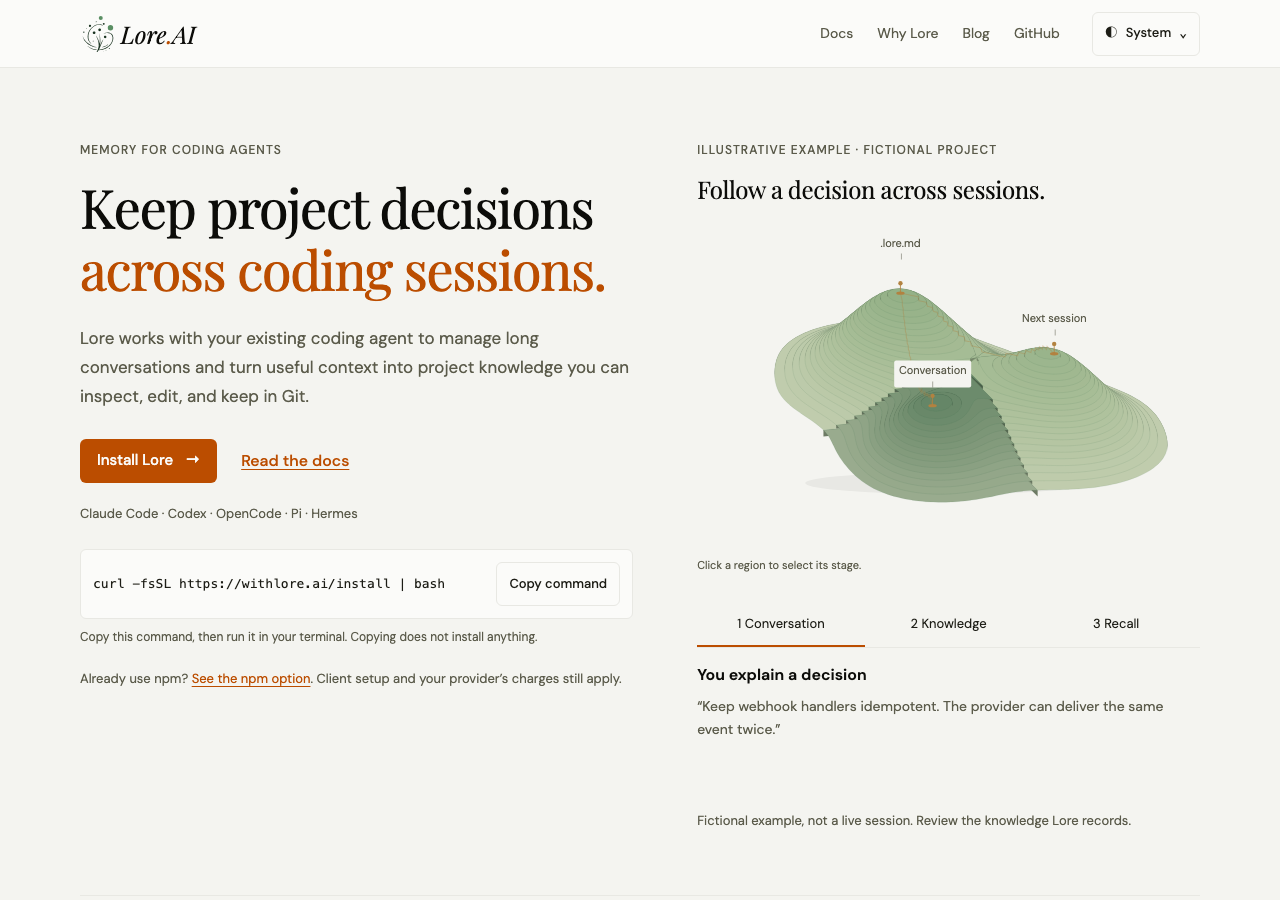
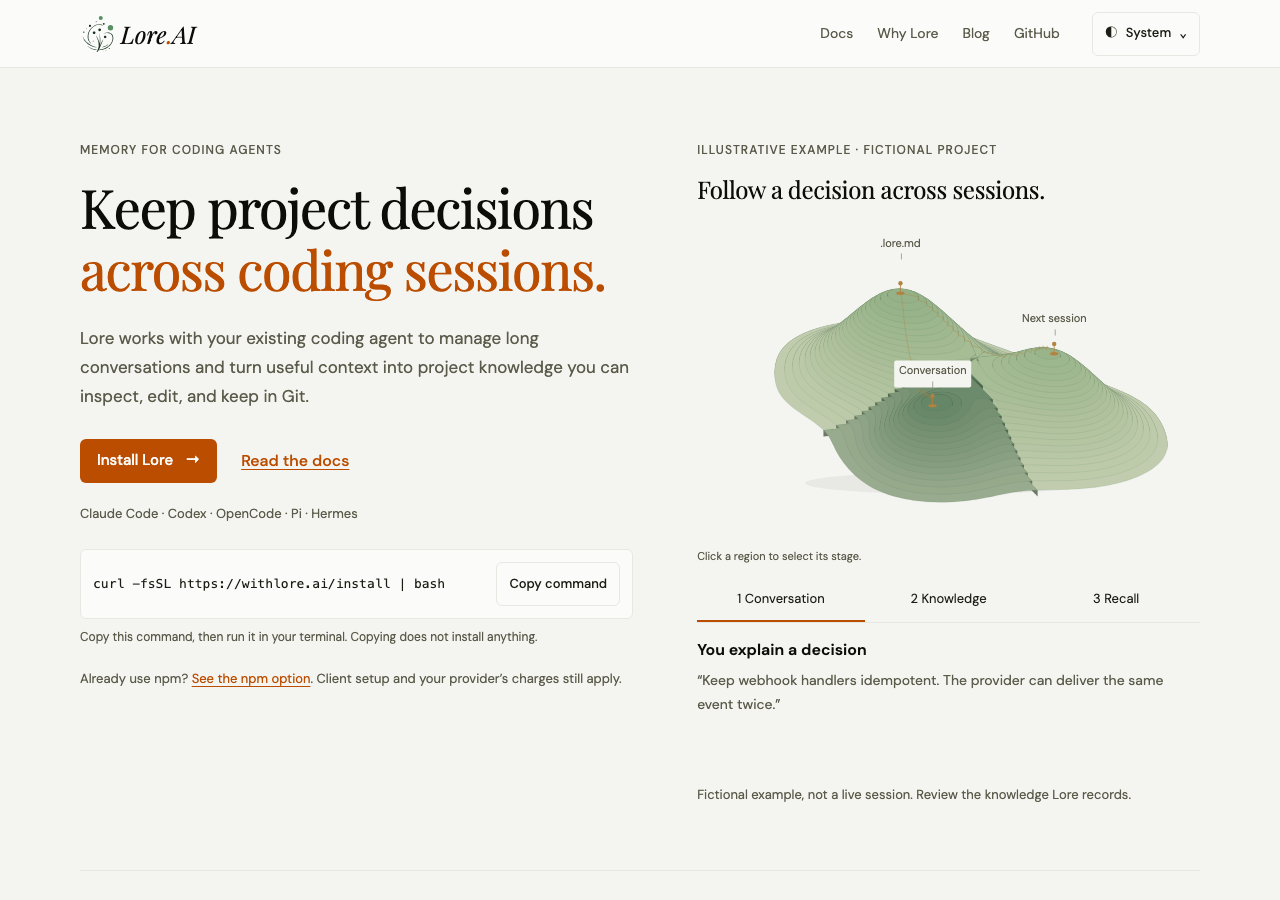
ref(website): Remove landscape view controls

diff --git a/packages/website/test/browser/landscape.spec.ts b/packages/website/test/browser/landscape.spec.ts
@@ -172,8 +172,6 @@ test("WebGL context loss shows the fallback and restores the selected stage", as
   await graph.scrollIntoViewIfNeeded();
   await expect(graph).toHaveAttribute("data-renderer", "webgl");
   await page.getByRole("radio", { name: "3 Recall", exact: true }).check();
-  const rotation = page.getByRole("slider", { name: "Rotate landscape" });
-  await rotation.fill("24");
   const supported = await graph
     .locator("canvas")
     .evaluate((canvas: HTMLCanvasElement) => {
@@ -198,7 +196,6 @@ test("WebGL context loss shows the fallback and restores the selected stage", as
   await expect(graph).toHaveAttribute("data-renderer", "webgl");
   await expect(page.locator("#memory-stage-recall")).toBeVisible();
   await expect(graph.locator("canvas")).toHaveCount(1);
-  await expect(rotation).toHaveValue("24");
 });
 
 async function regionPoint(
@@ -267,7 +264,7 @@ test("clicking each broad terrain region selects and highlights its correspondin
   expect(errors).toEqual([]);
 });
 
-test("dragging away and back rotates without selecting a region; keyboard rotation and reset remain available", async ({
+test("dragging away and back preserves selection without extra view controls", async ({
   page,
 }) => {
   await page.emulateMedia({ reducedMotion: "no-preference" });
@@ -283,12 +280,12 @@ test("dragging away and back rotates without selecting a region; keyboard rotati
   await expect(
     page.getByRole("radio", { name: "1 Conversation", exact: true }),
   ).toBeChecked();
-  const slider = page.getByRole("slider", { name: "Rotate landscape" });
-  await slider.focus();
-  await page.keyboard.press("ArrowRight");
-  await expect(slider).toHaveValue("1");
-  await page.getByRole("button", { name: "Reset view", exact: true }).click();
-  await expect(slider).toHaveValue("0");
+  await expect(
+    page.getByRole("slider", { name: "Rotate landscape" }),
+  ).toHaveCount(0);
+  await expect(
+    page.getByRole("button", { name: "Reset view", exact: true }),
+  ).toHaveCount(0);
   const target = await regionPoint(page, "recall");
   await page.mouse.click(target.x, target.y);
   await expect(
@@ -436,10 +433,12 @@ test("mobile horizontal swipes rotate, while vertical gestures still scroll", as
       touchPoints: [],
     });
   };
+  const canvas = art.locator("canvas");
+  const initial = await canvas.screenshot();
   await swipe(55, 0);
-  await expect(
-    page.getByRole("slider", { name: "Rotate landscape" }),
-  ).not.toHaveValue("0");
+  await expect
+    .poll(async () => !(await canvas.screenshot()).equals(initial))
+    .toBe(true);
   await expect(
     page.getByRole("radio", { name: "1 Conversation", exact: true }),
   ).toBeChecked();

diff --git a/packages/website/src/scripts/memory-landscape.ts b/packages/website/src/scripts/memory-landscape.ts
@@ -6,14 +6,9 @@ for (const root of document.querySelectorAll<HTMLElement>(
   ".memory-landscape",
 )) {
   const art = root.querySelector<HTMLElement>(".landscape-art");
-  const controls = root.querySelector<HTMLElement>(".landscape-controls");
-  const rotation = root.querySelector<HTMLInputElement>(".landscape-rotate");
-  const reset = root.querySelector<HTMLButtonElement>(".landscape-reset");
   const hint = root.querySelector<HTMLElement>(".landscape-hint");
-  if (!art || !controls || !rotation || !reset || !hint) continue;
+  if (!art || !hint) continue;
   const element = art,
-    viewControls = controls,
-    slider = rotation,
     help = hint;
   let renderer: LandscapeRenderer | null = null;
   let visible = false,
@@ -31,22 +26,14 @@ for (const root of document.querySelectorAll<HTMLElement>(
     return !media.matches && (memory === undefined || memory > 2);
   };
   function ready(value: boolean) {
-    const restoreFocus =
-      !value && viewControls.contains(document.activeElement);
     element.dataset.renderer = value ? "webgl" : "static";
-    viewControls.hidden = !value;
     if (!value) {
-      slider.value = "0";
       element
         .querySelectorAll<HTMLElement>("[data-rest-style]")
         .forEach((label) => {
           label.style.cssText = label.dataset.restStyle ?? "";
         });
     }
-    if (restoreFocus)
-      root
-        .querySelector<HTMLInputElement>('input[name="memory-stage"]:checked')
-        ?.focus({ preventScroll: true });
   }
   function select(next: MemoryPhase) {
     const input = root.querySelector<HTMLInputElement>(
@@ -101,10 +88,6 @@ for (const root of document.querySelectorAll<HTMLElement>(
     );
   });
   fallback?.addEventListener("pointerleave", () => hover(null));
-  slider.addEventListener("input", () =>
-    renderer?.setRotation(slider.valueAsNumber),
-  );
-  reset.addEventListener("click", () => renderer?.resetView());
   async function sync() {
     if (!allowed()) {
       generation++;
@@ -128,9 +111,6 @@ for (const root of document.querySelectorAll<HTMLElement>(
       renderer = module.mountLandscape(element, ready, {
         select,
         hover,
-        rotation(value) {
-          slider.value = String(value);
-        },
         failure() {
           failed = true;
           renderer = null;

diff --git a/packages/website/public/theme.css b/packages/website/public/theme.css
@@ -161,13 +161,7 @@ th { font-weight: 500; }
 .landscape-pin { cursor:pointer; }
 .landscape-pin ellipse, .landscape-pin circle { fill:var(--land-brass); }
 .landscape-pin path { stroke:var(--land-brass); stroke-width:1; }
-.landscape-toolbar { min-height:52px; display:flex; align-items:center; justify-content:space-between; gap:8px; }
-.landscape-hint { color:var(--muted); font-size:.6875rem; }
-.landscape-controls { display:flex; gap:8px; align-items:center; }
-.landscape-controls[hidden] { display:none; }
-.landscape-controls label { display:flex; align-items:center; gap:5px; font-size:11px; color:var(--muted); }
-.landscape-rotate { width:72px; min-height:44px; margin:0; accent-color:var(--land-jade); }
-.landscape-reset { min-height:44px; border:1px solid var(--line); border-radius:3px; padding:5px 8px; background:transparent; color:var(--text); font:11px var(--sans); cursor:pointer; }
+.landscape-hint { margin-block:.5rem; color:var(--muted); font-size:.6875rem; }
 .landscape-art[data-renderer="webgl"]:not([data-target-phase]) canvas { cursor:grab; }
 .landscape-art[data-target-phase] canvas { cursor:pointer; }
 .memory-landscape:has(input[value="conversation"]:checked) .landscape-face[data-land-region="conversation"],
@@ -175,7 +169,6 @@ th { font-weight: 500; }
 .memory-landscape:has(input[value="recall"]:checked) .landscape-face[data-land-region="recall"] { --region-color:var(--land-jade); }
 .memory-landscape:has(input[value="knowledge"]:checked) .landscape-trail[data-trail="0"],
 .memory-landscape:has(input[value="recall"]:checked) .landscape-trail { opacity:1; }
-@media(max-width:600px) { .landscape-toolbar { min-height:88px; flex-wrap:wrap; align-content:center; } .landscape-hint { width:100%; } .landscape-controls { width:100%; justify-content:space-between; } .landscape-rotate { width:110px; } }
 .memory-stage-controls { display: flex; flex-wrap: wrap; border: 0; border-bottom: 1px solid var(--line); padding: 0; margin: .75rem 0 0; }
 .memory-stage-controls label { display: flex; flex: 1; align-items: center; justify-content: center; min-height: 44px; border-bottom: 2px solid transparent; padding: .5rem .375rem; cursor: pointer; font-size: .8125rem; }
 .memory-stage-controls input { position: absolute; width: 1px; height: 1px; opacity: 0; }

diff --git a/packages/website/src/lib/memory-landscape-renderer.ts b/packages/website/src/lib/memory-landscape-renderer.ts
@@ -15,14 +15,11 @@ import {
 export interface LandscapeRenderer {
   setPhase(phase: MemoryPhase, animate?: boolean): void;
   setVisible(visible: boolean): void;
-  setRotation(degrees: number): void;
-  resetView(): void;
   dispose(): void;
 }
 interface Events {
   select(phase: MemoryPhase): void;
   hover(phase: MemoryPhase | null): void;
-  rotation(degrees: number): void;
   failure(): void;
 }
 export function mountLandscape(
@@ -612,7 +609,6 @@ export function mountLandscape(
           targetOrbit = clamp(press.orbit + dx * 0.0045, -0.42, 0.42);
           if (!press.touch)
             targetTilt = clamp(press.tilt + dy * 0.0018, -0.1, 0.1);
-          events.rotation(Math.round((targetOrbit * 180) / Math.PI));
           targetX = targetY = 0;
           hover(-1);
           schedule();
@@ -668,7 +664,6 @@ export function mountLandscape(
     }
     function contextRestored() {
       lost = false;
-      events.rotation(Math.round((targetOrbit * 180) / Math.PI));
       fit();
       palette();
       schedule();
@@ -712,19 +707,6 @@ export function mountLandscape(
           stop();
           settle();
         }
-      },
-      setRotation(degrees) {
-        if (!Number.isFinite(degrees) || disposed) return;
-        targetOrbit = (clamp(degrees, -24, 24) * Math.PI) / 180;
-        schedule();
-      },
-      resetView() {
-        release();
-        pendingTap = false;
-        targetOrbit = targetTilt = targetX = targetY = 0;
-        events.rotation(0);
-        hover(-1);
-        schedule();
       },
       dispose,
     };

diff --git a/docs/website-ui/README.md b/docs/website-ui/README.md
@@ -13,8 +13,7 @@ The blog uses compact article rows and noninteractive topic metadata. The ticker
 three terraced regions: Conversation, Knowledge, and Recall. Clicking or tapping
 any region selects its native stage control, highlights the terrain and updates
 the fictional example. Stage controls select the region in return. Dragging turns
-the landscape without changing the selected stage; a keyboard rotation slider
-and Reset view provide the same view controls. A brief brass trail traces forward
+the landscape without changing the selected stage. A brief brass trail traces forward
 stage selections, then stops. There is no idle animation.
 
 The server-rendered SVG shares the terrain contours, camera and region boundaries

diff --git a/docs/superpowers/specs/2026-10-27-website-journey.md b/docs/superpowers/specs/2026-10-27-website-journey.md
@@ -73,3 +73,6 @@ return. Dragging rotates without selecting, with keyboard rotation and reset
 controls. Use a brief trail for user-driven forward stage changes; no idle loop.
 The matching SVG and native controls cover reduced motion, low memory, unavailable
 WebGL and no JavaScript. Add this approved design to existing PR #2115.
+
+The user subsequently requested removing the Rotate slider and Reset view button.
+Keep drag rotation and region/stage selection; remove the extra view controls.
